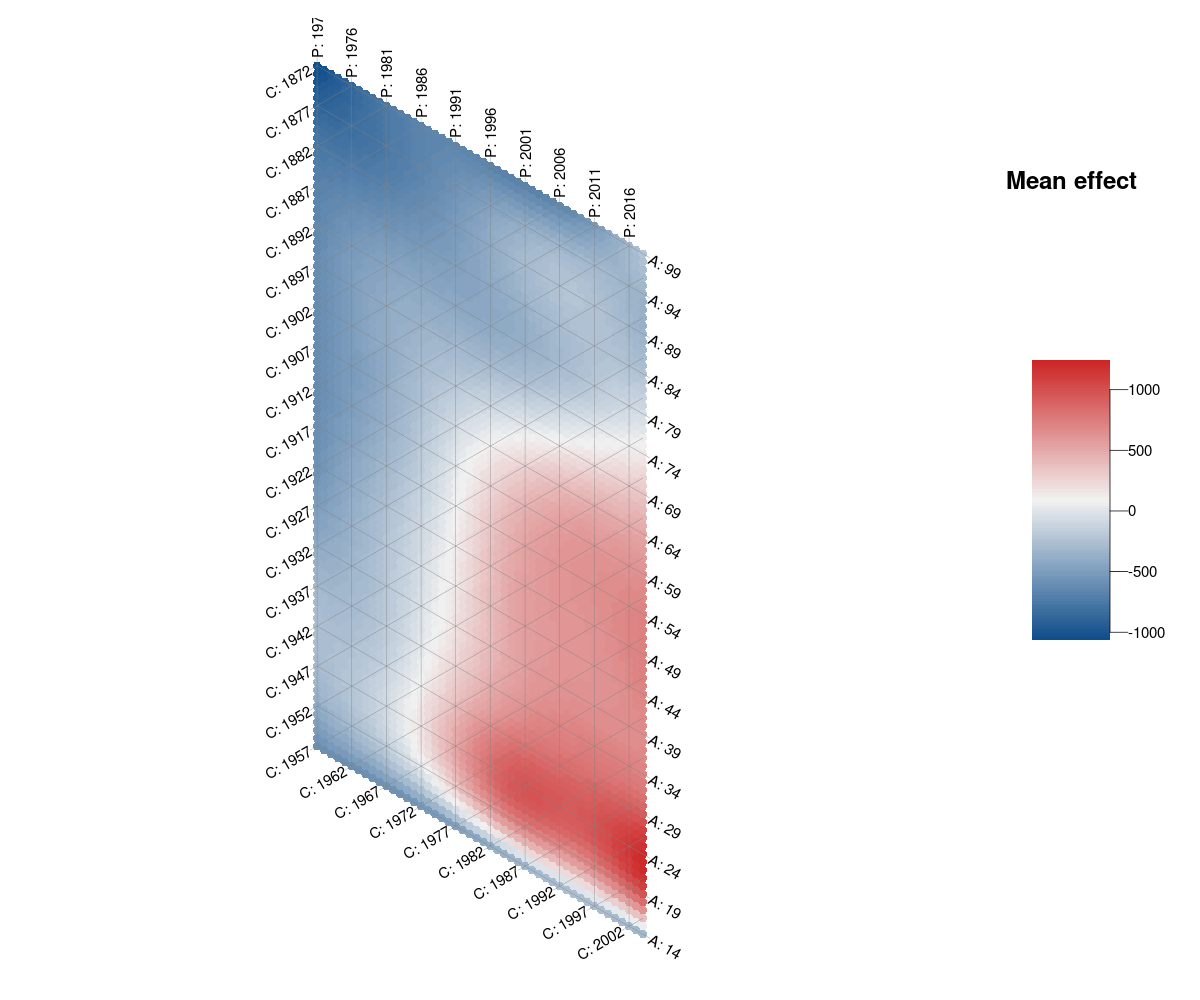
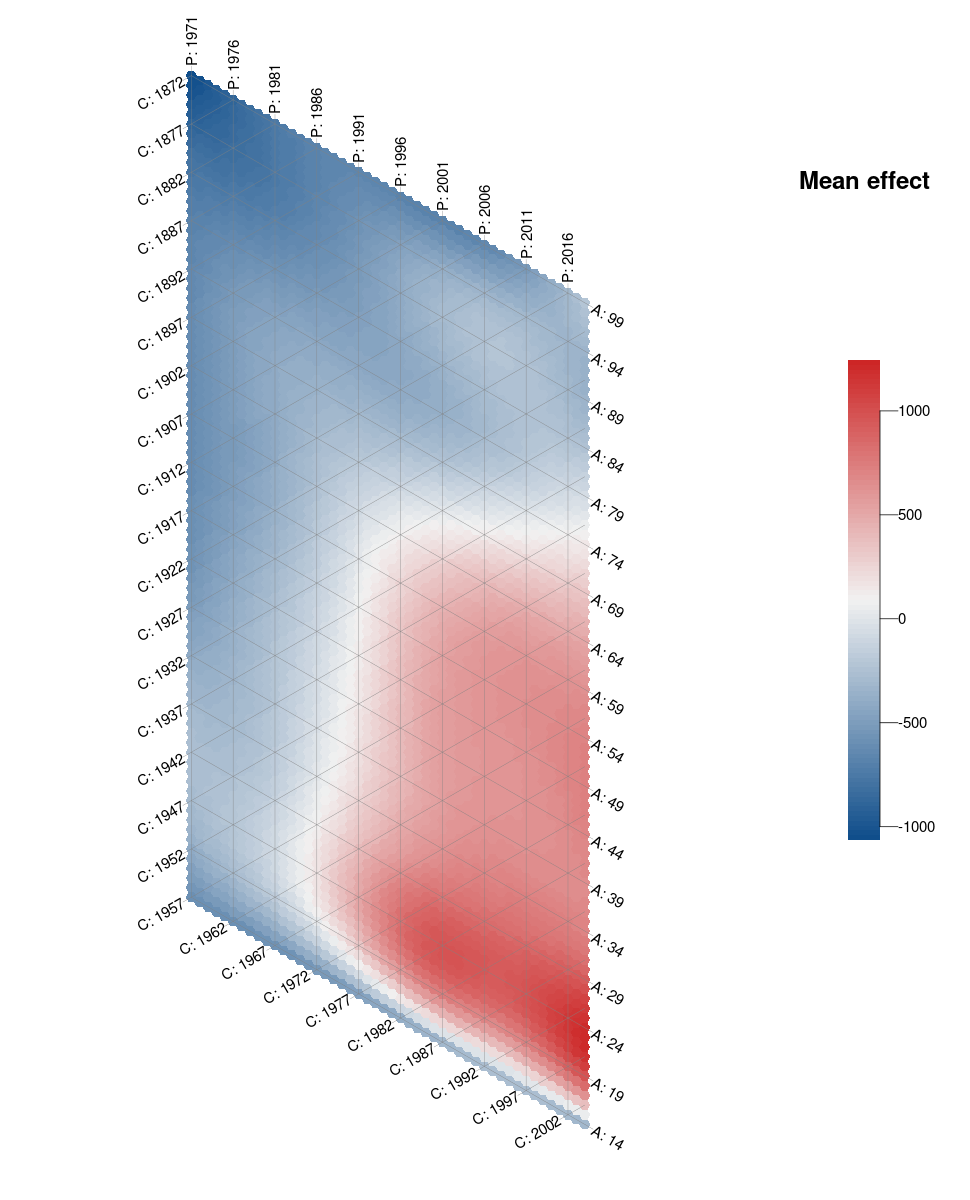
refined the hexamap figure

diff --git a/paper/paper.md b/paper/paper.md
@@ -119,7 +119,7 @@ This resolves the central problem of classical heatmaps where developments over
 the diagonal dimension are visually underrepresented compared to developments
 over the dimensions depicted on the x- and y-axis.
 
-![Hexamap of the estimated tensor product surface based on an additive model with the main trips travel distance as response and no further control variables. \label{fig:modelHexamap}](figures/3_modelHexamap.png)
+![Hexamap of the estimated tensor product surface based on an additive model with the main trips travel distance as response and no further control variables. \label{fig:modelHexamap}](figures/3_modelHexamap.png){width=70%}
 
 `APCtools` further implements partial APC plots, which can be used to visualize
 the interdependencies between the different temporal dimensions (see @weigert_2021
